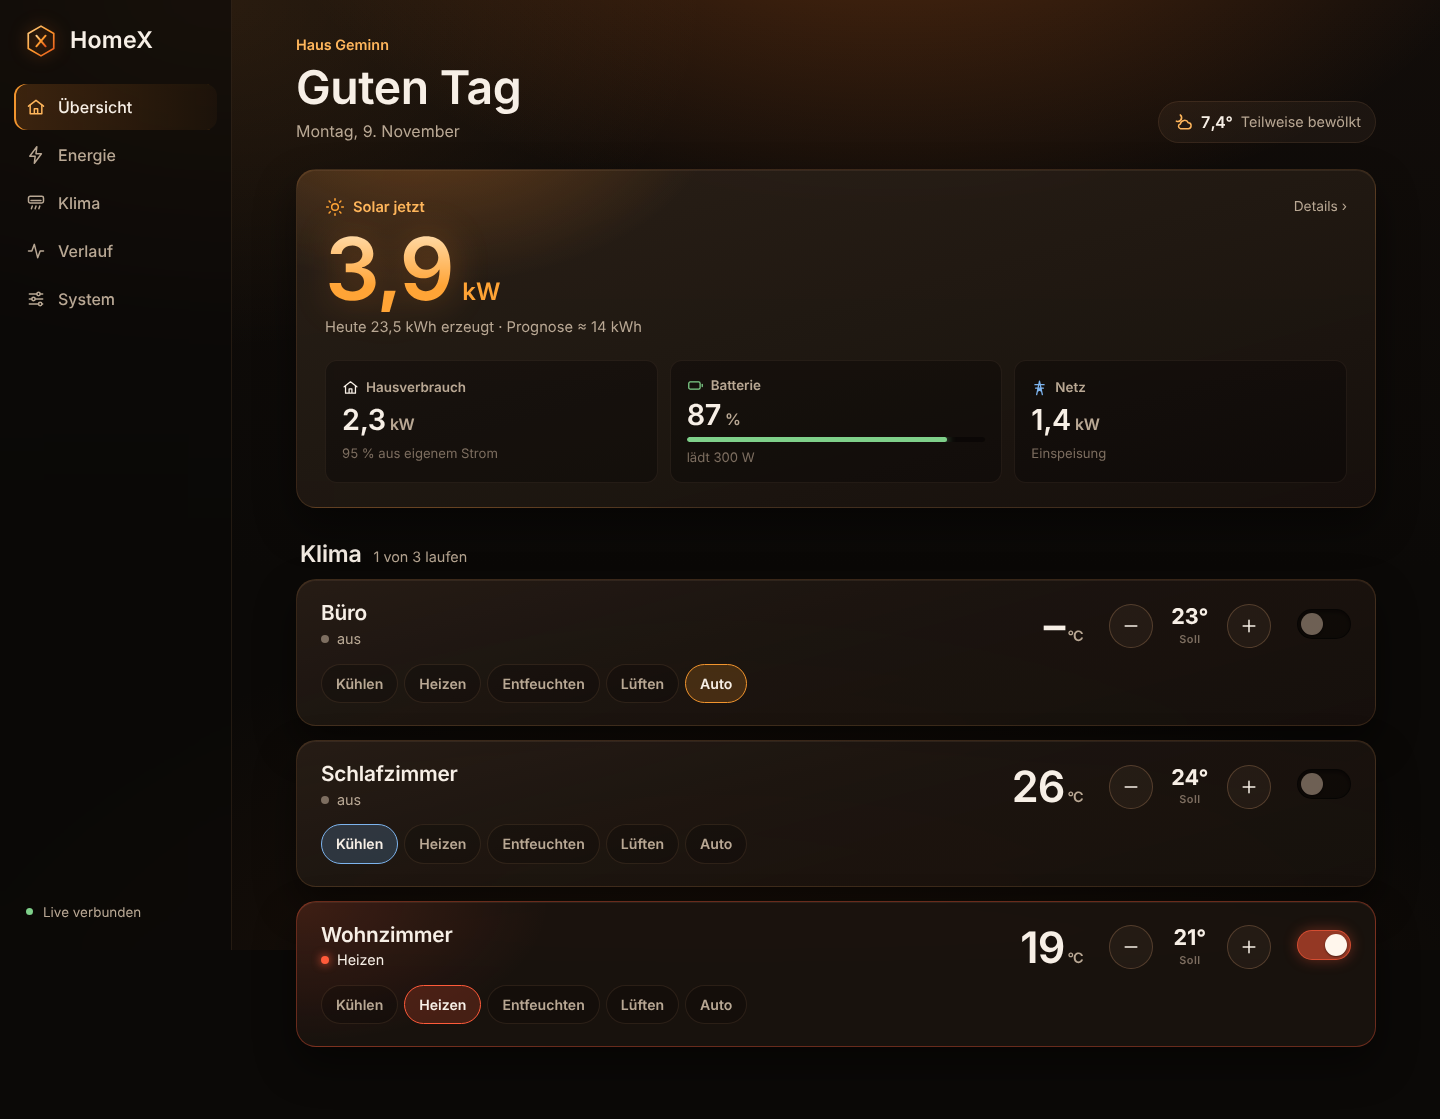
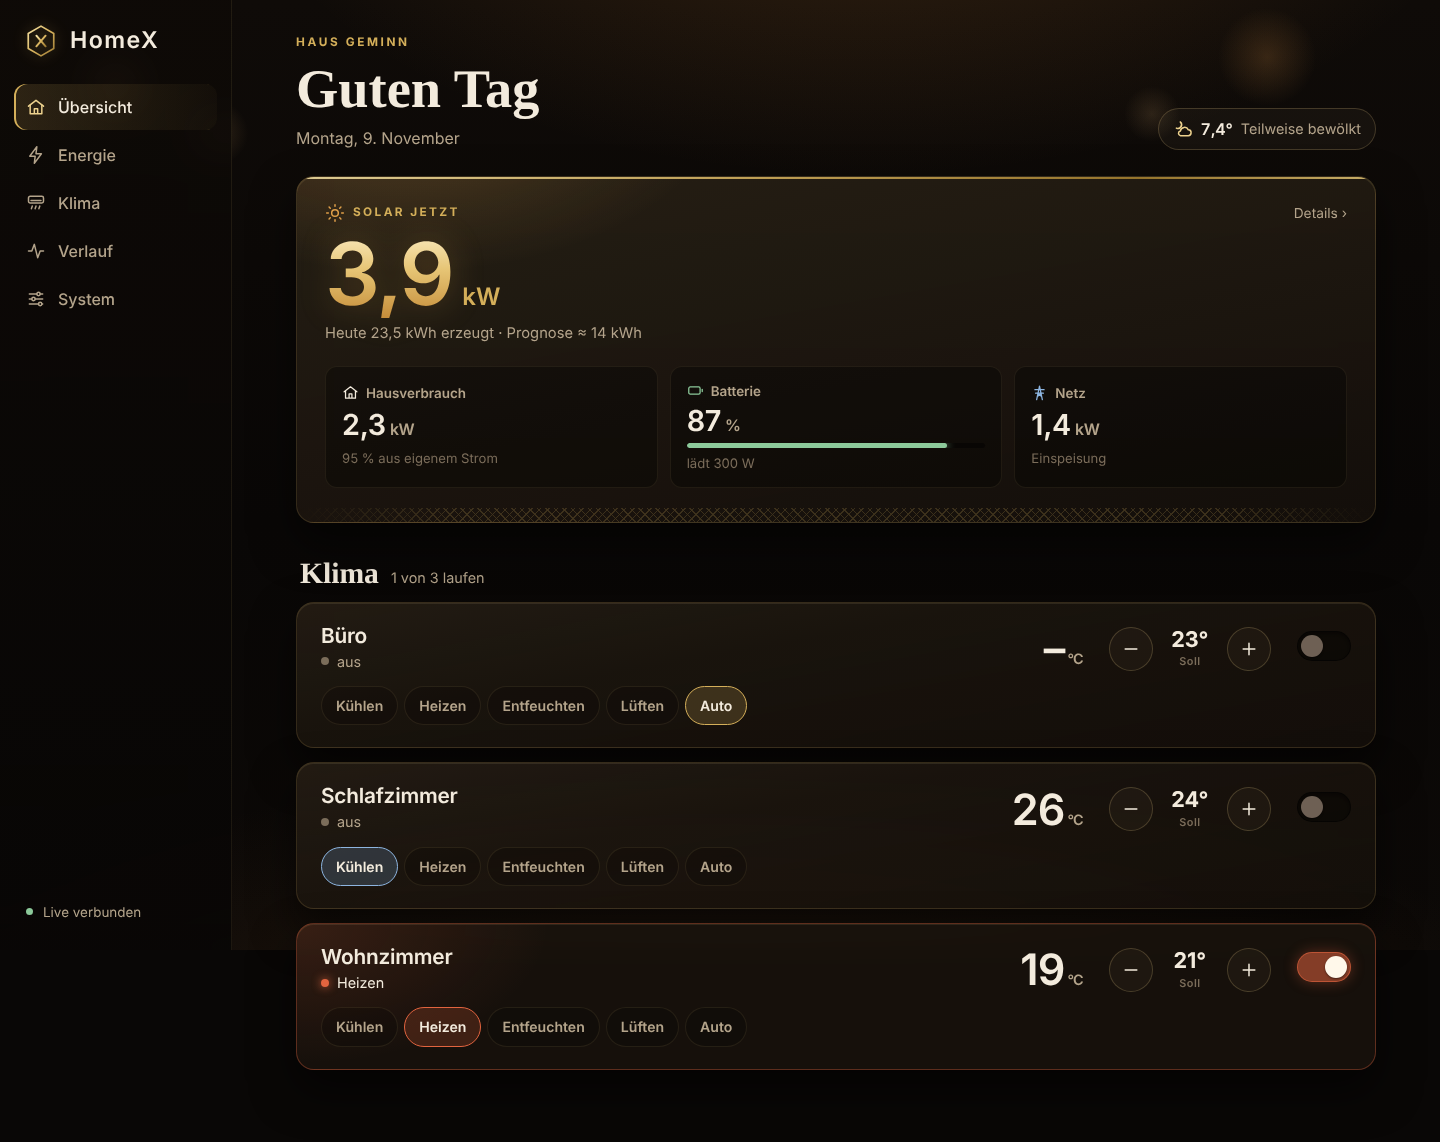
Dashboard im Whisky-Tasting-Look (Schwarz, Braun, Gold); Test-Geräte nicht mehr auf dem Server

diff --git a/homex-plugins/web-api/src/main/resources/web/app.css b/homex-plugins/web-api/src/main/resources/web/app.css
@@ -1,5 +1,5 @@
 /* =====================================================================
-   HomeX – "Whisky & Rauch"
+   HomeX – "Whisky-Tasting"
    Fast schwarzer Grund, Licht wie Feuerschein von oben, Karten aus
    rauchigem Glas. Amber ist die eine leuchtende Farbe (Sonne, aktiv,
    Auswahl); die übrigen Farben tragen Bedeutung: Grün = Batterie,
@@ -7,45 +7,47 @@
    ===================================================================== */
 
 :root {
-  --holz: #0B0907;
-  --holz-hell: #15100C;
-  --leder: rgba(28, 21, 16, .78);
-  --leder-hoch: rgba(40, 29, 21, .85);
-  --leder-tief: rgba(14, 10, 8, .6);
-  --glas-rand: rgba(255, 170, 90, .14);
-  --kante: rgba(255, 190, 130, .10);
-  --kante-hell: rgba(255, 190, 130, .22);
+  --holz: #090706;
+  --holz-hell: #14100C;
+  --leder: rgba(27, 20, 14, .74);          /* dunkles Eichenbraun, wie Whisky im Schatten */
+  --leder-hoch: rgba(40, 30, 21, .85);
+  --leder-tief: rgba(12, 9, 7, .6);
+  --glas-rand: rgba(214, 178, 98, .17);    /* feine Goldkante */
+  --kante: rgba(214, 182, 120, .10);
+  --kante-hell: rgba(214, 182, 120, .24);
 
-  --text: #F7EFE6;
-  --leise: #B9A894;
-  --sehr-leise: #7D6E60;
+  --text: #F3EBDD;
+  --leise: #B4A48B;
+  --sehr-leise: #7B6D5A;
 
-  --messing: #F2952E;          /* Amber – die Akzentfarbe */
-  --messing-hell: #FFB65C;
-  --glut: #FF6A1F;
-  --sonne: #FFA436;
-  --batterie: #7FD08A;
-  --netz: #7DB4EE;
-  --kuehl: #7DB4EE;
-  --heiss: #FF5B3A;
-  --ok: #7FD08A;
+  --messing: #D4AF5A;          /* Gold – die Akzentfarbe (Karaffenverschluss) */
+  --messing-hell: #EDD28E;
+  --glut: #9C7A32;
+  --gold-verlauf: linear-gradient(135deg, #F6E4A6 0%, #D9B560 42%, #A8822F 78%, #E3C676 100%);
+  --sonne: #E0A04A;            /* Whisky-Bernstein für die Solarleistung */
+  --batterie: #8CC99A;
+  --netz: #8DB5E0;
+  --kuehl: #8DB5E0;
+  --heiss: #E2643F;
+  --ok: #8CC99A;
 
   /* Diagrammfarben – geprüft auf Kontrast und Farbsehschwäche vor dem dunklen Glas */
   --reihe-pv: #D07E22;
   --reihe-verbrauch: #4A92D4;
 
-  --panel: #1A140F;
-  --panel-hoch: #241B14;
+  --panel: #19130E;
+  --panel-hoch: #231A12;
   --violett: var(--messing);
   --mint: var(--ok);
 
+  --schrift-edel: "Cormorant Garamond", Georgia, serif;
   --schrift-titel: "Outfit", "Segoe UI", system-ui, sans-serif;
   --schrift-text: "Manrope", "Segoe UI", system-ui, -apple-system, sans-serif;
   --schrift-zahl: "Outfit", "Segoe UI", system-ui, sans-serif;
 
   --rand: 16px;
   --r-klein: 12px;
-  --r-gross: 20px;
+  --r-gross: 18px;
   --nav-breite: 232px;
   color-scheme: dark;
 }
@@ -60,16 +62,20 @@ body {
   color: var(--text);
   font: 400 1rem/1.5 var(--schrift-text);
   background-color: var(--holz);
-  /* Feuerschein von oben, nach unten in Rauch und Schwarz */
+  /* Dunkler Raum, Kerzenlichter im Hintergrund, unten der Schimmer des Holztresens */
   background-image:
-    radial-gradient(900px 520px at 62% -140px, rgba(255, 120, 30, .28), transparent 70%),
-    radial-gradient(700px 500px at 15% 0%, rgba(255, 160, 60, .10), transparent 70%),
-    radial-gradient(1200px 700px at 50% 115%, rgba(120, 60, 20, .18), transparent 70%),
-    linear-gradient(180deg, #120D0A, #0B0907 60%);
+    radial-gradient(60px 60px at 8% 9%, rgba(255, 176, 90, .20), transparent 70%),
+    radial-gradient(46px 46px at 15% 14%, rgba(255, 196, 120, .14), transparent 70%),
+    radial-gradient(70px 70px at 88% 6%, rgba(255, 170, 80, .16), transparent 70%),
+    radial-gradient(40px 40px at 80% 12%, rgba(255, 200, 130, .12), transparent 70%),
+    radial-gradient(900px 480px at 60% -160px, rgba(190, 120, 50, .22), transparent 70%),
+    radial-gradient(1300px 520px at 50% 118%, rgba(110, 70, 36, .30), transparent 70%),
+    linear-gradient(180deg, #0F0B08, #090706 55%, #0C0907);
   background-attachment: fixed;
 }
 
 h1, h2, h3 { margin: 0; font-family: var(--schrift-titel); font-weight: 600; letter-spacing: -.01em; line-height: 1.1; }
+.kopf h1, .abschnitt-kopf h2 { font-family: var(--schrift-edel); font-weight: 600; letter-spacing: 0; }
 p { margin: 0; }
 button, input, select { font: inherit; color: inherit; }
 button { cursor: pointer; }
@@ -87,10 +93,10 @@ strong, .zahl { font-variant-numeric: tabular-nums; }
 /* Rauchglas: wird von Karten, Panels und Dialogen geteilt. */
 .leder, .panel, .solar-karte, .klima-karte, .regel, .szenen-karte, .login, .blatt, .leer-gross {
   position: relative;
-  background: linear-gradient(165deg, rgba(255, 200, 150, .06), rgba(255, 200, 150, .015) 40%, rgba(0,0,0,.1)), var(--leder);
+  background: linear-gradient(170deg, rgba(232, 200, 140, .06), rgba(232, 200, 140, .012) 38%, rgba(0,0,0,.14)), var(--leder);
   border: 1px solid var(--glas-rand);
   border-radius: var(--r-gross);
-  box-shadow: 0 1px 0 rgba(255, 210, 160, .08) inset, 0 18px 40px rgba(0,0,0,.45);
+  box-shadow: 0 1px 0 rgba(246, 228, 166, .10) inset, 0 20px 44px rgba(0,0,0,.55);
   -webkit-backdrop-filter: blur(14px); backdrop-filter: blur(14px);
 }
 
@@ -102,7 +108,7 @@ strong, .zahl { font-variant-numeric: tabular-nums; }
   position: sticky; top: 0; height: 100vh;
   display: flex; flex-direction: column; gap: 26px;
   padding: 24px 14px calc(18px + env(safe-area-inset-bottom));
-  background: rgba(10, 8, 6, .6);
+  background: linear-gradient(180deg, rgba(14, 10, 7, .78), rgba(8, 6, 5, .85));
   -webkit-backdrop-filter: blur(16px); backdrop-filter: blur(16px);
   border-right: 1px solid var(--kante);
 }
@@ -111,14 +117,15 @@ strong, .zahl { font-variant-numeric: tabular-nums; }
   color: var(--text); text-decoration: none;
   font: 600 1.45rem/1 var(--schrift-titel); letter-spacing: .01em;
 }
-.marke-hex { width: 34px; height: 34px; filter: drop-shadow(0 0 8px rgba(255, 130, 40, .55)); }
+.marke-hex { width: 34px; height: 34px; filter: drop-shadow(0 0 7px rgba(214, 175, 90, .45)); }
+.marke span { letter-spacing: .06em; }
 .nav-liste { list-style: none; margin: 0; padding: 0; display: grid; gap: 2px; }
 .nav-liste a {
   display: flex; align-items: center; gap: 12px; padding: 11px 12px; border-radius: var(--r-klein);
   color: var(--leise); text-decoration: none; font-weight: 500;
 }
-.nav-liste a:hover { color: var(--text); background: rgba(255,235,200,.04); }
-.nav-liste a[aria-current="page"] { color: var(--text); background: linear-gradient(90deg, rgba(255,140,40,.18), rgba(255,140,40,.04)); box-shadow: inset 2px 0 0 var(--messing); }
+.nav-liste a:hover { color: var(--text); background: rgba(240,220,170,.04); }
+.nav-liste a[aria-current="page"] { color: var(--text); background: linear-gradient(90deg, rgba(214,175,90,.16), rgba(214,175,90,.03)); box-shadow: inset 2px 0 0 var(--messing); }
 .nav-liste a[aria-current="page"] .icon { color: var(--messing-hell); }
 .nav-zahl { margin-left: auto; font-weight: 700; font-size: .78rem; color: var(--heiss); }
 .nav-status { margin-top: auto; padding: 10px 12px; font-size: .84rem; color: var(--leise); display: flex; align-items: center; gap: 10px; }
@@ -132,14 +139,14 @@ strong, .zahl { font-variant-numeric: tabular-nums; }
 /* ================================================================ Kopf */
 
 .kopf { display: flex; flex-wrap: wrap; align-items: flex-end; gap: 14px 28px; margin-bottom: 26px; }
-.kopf h1 { font-size: clamp(2.1rem, 4vw, 2.9rem); font-weight: 600; }
-.kopf-ueber { color: var(--messing-hell); font-size: .9rem; font-weight: 600; margin-bottom: 6px; }
+.kopf h1 { font-size: clamp(2.5rem, 5vw, 3.4rem); font-weight: 600; }
+.kopf-ueber { color: var(--messing); font-size: .74rem; font-weight: 700; letter-spacing: .22em; text-transform: uppercase; margin-bottom: 8px; }
 .kopf-unter { color: var(--leise); margin-top: 6px; }
 .kopf-rechts { margin-left: auto; display: flex; flex-wrap: wrap; gap: 10px; align-items: center; }
 
 .chip {
   display: inline-flex; align-items: center; gap: 8px; padding: 8px 14px; border-radius: 999px;
-  background: rgba(255, 200, 150, .05); border: 1px solid var(--kante); color: var(--leise); text-decoration: none; font-size: .9rem;
+  background: rgba(240, 215, 160, .045); border: 1px solid var(--kante-hell); color: var(--leise); text-decoration: none; font-size: .9rem;
 }
 .chip strong { color: var(--text); font-weight: 600; font-size: 1rem; }
 .chip .icon { color: var(--messing-hell); }
@@ -147,7 +154,7 @@ a.chip:hover { border-color: var(--kante-hell); }
 
 .abschnitt { margin-top: 34px; }
 .abschnitt-kopf { display: flex; align-items: baseline; gap: 12px; margin-bottom: 12px; padding: 0 4px; }
-.abschnitt-kopf h2 { font-size: 1.45rem; }
+.abschnitt-kopf h2 { font-size: 1.85rem; }
 .abschnitt-kopf .neben { color: var(--leise); font-size: .9rem; }
 .panel { padding: 22px; }
 .panel h2 { font-size: 1.2rem; margin-bottom: 14px; position: relative; z-index: 1; }
@@ -167,13 +174,13 @@ a.chip:hover { border-color: var(--kante-hell); }
 .knopf:hover { border-color: var(--messing); }
 .knopf:disabled { opacity: .45; cursor: default; }
 .knopf .icon { width: 18px; height: 18px; }
-.knopf.haupt { color: #1A0F06; border: 0; background: linear-gradient(180deg, var(--messing-hell), var(--messing) 55%, var(--glut)); box-shadow: 0 6px 20px rgba(255,120,30,.3); }
+.knopf.haupt { color: #1A1206; border: 0; background: var(--gold-verlauf); box-shadow: 0 6px 20px rgba(214,175,90,.25), inset 0 1px 0 rgba(255,255,255,.35); }
 .knopf.klein { min-height: 34px; padding: 0 12px; font-size: .86rem; }
 
 .rund-knopf {
   width: 44px; height: 44px; border-radius: 50%; flex: none; display: grid; place-items: center;
   border: 1px solid var(--kante-hell); color: var(--text);
-  background: rgba(255, 200, 150, .05);
+  background: rgba(240, 215, 160, .04);
 }
 .rund-knopf:hover { border-color: var(--messing); }
 .rund-knopf:disabled { opacity: .35; cursor: default; }
@@ -192,7 +199,7 @@ a.chip:hover { border-color: var(--kante-hell); }
   transition: transform .18s ease, background .18s;
 }
 .schalter[aria-checked="true"] { background: color-mix(in srgb, var(--an) 55%, #120D0A); border-color: color-mix(in srgb, var(--an) 60%, transparent); box-shadow: 0 0 14px color-mix(in srgb, var(--an) 35%, transparent); }
-.schalter[aria-checked="true"]::after { transform: translateX(24px); background: #FFF6EC; }
+.schalter[aria-checked="true"]::after { transform: translateX(24px); background: #FFF8EA; }
 .schalter:disabled { opacity: .45; cursor: default; }
 
 .segmente { display: flex; flex-wrap: wrap; gap: 6px; }
@@ -211,22 +218,31 @@ input[type="range"] { width: 100%; accent-color: var(--farbe, var(--messing)); h
 .solar-karte {
   display: block; padding: 26px 28px 24px; color: var(--text); text-decoration: none; overflow: hidden;
   background:
-    radial-gradient(420px 260px at 12% -20%, rgba(255, 140, 40, .30), transparent 70%),
-    linear-gradient(165deg, rgba(255, 200, 150, .07), rgba(0,0,0,.1)), var(--leder);
+    radial-gradient(460px 260px at 10% -25%, rgba(224, 160, 74, .26), transparent 70%),
+    linear-gradient(170deg, rgba(232, 200, 140, .07), rgba(0,0,0,.14)), var(--leder);
 }
+/* Goldener Rand oben wie der Karaffenverschluss, unten das Rautenmuster der Gläser */
+.solar-karte::before { content: ""; position: absolute; left: 0; right: 0; top: 0; height: 2px; background: var(--gold-verlauf); opacity: .85; }
+.solar-karte::after { content: ""; position: absolute; left: 0; right: 0; bottom: 0; height: 14px; opacity: .22;
+  background:
+    repeating-linear-gradient(45deg, transparent 0 5px, rgba(214,175,90,.9) 5px 6px),
+    repeating-linear-gradient(-45deg, transparent 0 5px, rgba(214,175,90,.9) 5px 6px);
+  -webkit-mask-image: linear-gradient(90deg, transparent, #000 15%, #000 85%, transparent);
+  mask-image: linear-gradient(90deg, transparent, #000 15%, #000 85%, transparent); }
+.solar-karte { padding-bottom: 34px; }
 .solar-karte > * { position: relative; z-index: 1; }
 .solar-karte:hover .solar-mehr { color: var(--messing-hell); }
 .solar-karte.offline .solar-gross { opacity: .5; }
 .solar-kopf { display: flex; align-items: center; gap: 12px; }
-.solar-titel { display: inline-flex; align-items: center; gap: 8px; color: var(--messing-hell); font-weight: 600; font-size: .92rem; }
+.solar-titel { display: inline-flex; align-items: center; gap: 8px; color: var(--messing); font-weight: 700; font-size: .74rem; letter-spacing: .2em; text-transform: uppercase; }
 .solar-titel .icon { color: var(--sonne); }
 .solar-mehr { margin-left: auto; color: var(--leise); font-size: .86rem; }
 .solar-mehr::after { content: " ›"; }
 .solar-gross { display: flex; align-items: baseline; gap: 10px; margin-top: 8px; }
 .solar-gross strong { font: 600 clamp(3.6rem, 9vw, 5.4rem)/1 var(--schrift-zahl); letter-spacing: -.03em;
-  background: linear-gradient(180deg, #FFE2B8, var(--sonne) 70%); -webkit-background-clip: text; background-clip: text; color: transparent;
-  filter: drop-shadow(0 0 18px rgba(255, 140, 40, .35)); }
-.solar-gross span { font: 600 1.5rem var(--schrift-zahl); color: var(--sonne); }
+  background: linear-gradient(180deg, #FBEBC0 0%, #E6C474 45%, #C58D3A 100%); -webkit-background-clip: text; background-clip: text; color: transparent;
+  filter: drop-shadow(0 0 16px rgba(214, 160, 70, .28)); }
+.solar-gross span { font: 600 1.5rem var(--schrift-zahl); color: var(--messing); }
 .solar-unter { color: var(--leise); font-size: .92rem; margin-top: 4px; }
 .solar-warten { color: var(--leise); margin-top: 14px; max-width: 60ch; }
 
@@ -234,7 +250,7 @@ input[type="range"] { width: 100%; accent-color: var(--farbe, var(--messing)); h
 .solar-kachel {
   --farbe: var(--text);
   display: grid; gap: 4px; padding: 14px 16px; border-radius: 12px;
-  background: rgba(0,0,0,.28); border: 1px solid rgba(255, 200, 150, .07);
+  background: rgba(0,0,0,.32); border: 1px solid rgba(214, 182, 120, .09);
 }
 .solar-kachel.haus { --farbe: var(--text); }
 .solar-kachel.batterie { --farbe: var(--batterie); }
@@ -294,7 +310,7 @@ button.klima-name { background: none; border: 0; padding: 0; text-align: left; }
 .geraet-oeffnen { flex: 1; min-width: 0; display: flex; align-items: center; gap: 14px; background: none; border: 0; padding: 6px 0; text-align: left; }
 .geraet-symbol { width: 40px; height: 40px; border-radius: 50%; display: grid; place-items: center; flex: none;
   background: rgba(0,0,0,.25); color: var(--leise); border: 1px solid var(--kante); }
-.geraet-zeile.an .geraet-symbol { color: var(--sonne); border-color: rgba(227,168,63,.5); }
+.geraet-zeile.an .geraet-symbol { color: var(--messing-hell); border-color: rgba(214,175,90,.5); }
 .geraet-text { display: grid; min-width: 0; }
 .geraet-text strong { font-weight: 600; }
 .geraet-text span { color: var(--leise); font-size: .86rem; white-space: nowrap; overflow: hidden; text-overflow: ellipsis; }
@@ -314,7 +330,7 @@ button.klima-name { background: none; border: 0; padding: 0; text-align: left; }
 .fluss .strom.rueck { animation-direction: reverse; }
 @keyframes fliessen { to { stroke-dashoffset: -28; } }
 .fluss .knoten-form { fill: #17110D; stroke-width: 1.6; stroke: rgba(214,178,122,.35); }
-.fluss .haus .knoten-form { fill: #221912; stroke: var(--messing); filter: drop-shadow(0 0 10px rgba(255,130,40,.35)); }
+.fluss .haus .knoten-form { fill: #221912; stroke: var(--messing); filter: drop-shadow(0 0 10px rgba(214,175,90,.3)); }
 .fluss .wert { font: 600 21px/1 var(--schrift-zahl); fill: var(--text); text-anchor: middle; }
 .fluss .haus .wert { font-size: 30px; }
 .fluss .name { font: 600 12px/1 var(--schrift-text); fill: var(--leise); text-anchor: middle; }
@@ -490,7 +506,7 @@ table.daten td.zahl, table.daten th.zahl { text-align: right; font-variant-numer
     position: fixed; z-index: 20; top: auto; bottom: 0; left: 0; right: 0; height: auto;
     flex-direction: row; gap: 0; padding: 6px 6px calc(6px + env(safe-area-inset-bottom));
     border-right: 0; border-top: 1px solid rgba(0,0,0,.6); box-shadow: 0 -1px 0 var(--kante);
-    background: rgba(12, 9, 7, .82); -webkit-backdrop-filter: blur(18px); backdrop-filter: blur(18px);
+    background: rgba(9, 7, 5, .86); -webkit-backdrop-filter: blur(18px); backdrop-filter: blur(18px);
   }
   .marke { display: none; }
   .nav-status { display: none; }
@@ -503,7 +519,7 @@ table.daten td.zahl, table.daten th.zahl { text-align: right; font-variant-numer
   .nav-liste li { flex: 1; }
   .nav-liste a { flex-direction: column; gap: 3px; padding: 7px 2px; font-size: .7rem; font-weight: 600; }
   .nav-liste a[aria-current="page"] { box-shadow: none; background: none; color: var(--messing-hell); }
-  .nav-liste a[aria-current="page"] .icon { filter: drop-shadow(0 0 6px rgba(255,140,40,.7)); }
+  .nav-liste a[aria-current="page"] .icon { filter: drop-shadow(0 0 6px rgba(214,175,90,.6)); }
   .nav-zahl { display: none; }
   .inhalt { padding: calc(20px + env(safe-area-inset-top)) var(--rand) calc(100px + env(safe-area-inset-bottom)); }
   .kopf { margin-bottom: 18px; align-items: flex-start; }

diff --git a/homex-plugins/web-api/src/main/resources/web/index.html b/homex-plugins/web-api/src/main/resources/web/index.html
@@ -5,7 +5,7 @@
   <meta name="viewport" content="width=device-width, initial-scale=1, viewport-fit=cover">
   <title>HomeX</title>
   <meta name="description" content="HomeX – dein Smarthome">
-  <meta name="theme-color" content="#0B0907">
+  <meta name="theme-color" content="#090706">
   <meta name="mobile-web-app-capable" content="yes">
   <meta name="apple-mobile-web-app-capable" content="yes">
   <meta name="apple-mobile-web-app-title" content="HomeX">
@@ -15,7 +15,7 @@
   <link rel="apple-touch-icon" href="icon-180.png">
   <link rel="preconnect" href="https://fonts.googleapis.com">
   <link rel="preconnect" href="https://fonts.gstatic.com" crossorigin>
-  <link href="https://fonts.googleapis.com/css2?family=Outfit:wght@400;500;600;700&family=Manrope:wght@400;500;600;700&display=swap" rel="stylesheet">
+  <link href="https://fonts.googleapis.com/css2?family=Cormorant+Garamond:wght@500;600&family=Outfit:wght@400;500;600;700&family=Manrope:wght@400;500;600;700&display=swap" rel="stylesheet">
   <link rel="stylesheet" href="app.css">
 </head>
 <body>
@@ -28,9 +28,9 @@
         <svg class="marke-hex" viewBox="0 0 48 48" aria-hidden="true">
           <defs>
             <linearGradient id="markeMessing" x1="0" y1="0" x2="1" y2="1">
-              <stop offset="0" stop-color="#FFD08A"/>
-              <stop offset=".5" stop-color="#FF9A2E"/>
-              <stop offset="1" stop-color="#E5541A"/>
+              <stop offset="0" stop-color="#F6E4A6"/>
+              <stop offset=".5" stop-color="#D9B560"/>
+              <stop offset="1" stop-color="#9C7A32"/>
             </linearGradient>
           </defs>
           <path d="M24 3 42 13.5v21L24 45 6 34.5v-21Z" fill="none" stroke="url(#markeMessing)" stroke-width="2.4" stroke-linejoin="round"/>

diff --git a/README.md b/README.md
@@ -187,7 +187,7 @@ public class MeinListener implements Listener {
 - [`SmaSolar`](homex-plugins/sma-solar/README.md) – Sunny Tripower per Modbus TCP oder SMA Cloud-API
 - [`HisenseKlima`](homex-plugins/hisense-klima/README.md) – Hisense-Klimas (ConnectLife) steuern
 - [`WebAPI`](homex-plugins/web-api/README.md) – REST-API mit Live-Updates, Aktivitätsprotokoll, Verlauf und das HomeX-Dashboard
-- [`DummyGeraete`](homex-plugins/dummy-geraete/README.md) – Test-Lichter, Dimmer, Steckdosen und Rollläden mit OK/FEHLER in der Konsole
+- [`DummyGeraete`](homex-plugins/dummy-geraete/README.md) – Test-Lichter, Dimmer, Steckdosen und Rollläden mit OK/FEHLER in der Konsole (nur zum Testen am PC, auf dem Server nicht installiert)
 - [`Automation`](homex-plugins/automation/README.md) – Szenen und Regeln (Uhrzeit, Sonne, Bedingungen)
 - [`Wetter`](homex-plugins/wetter/README.md) – Wetter, Vorhersage und PV-Prognose von Open-Meteo
 

diff --git a/installation/README.md b/installation/README.md
@@ -50,6 +50,9 @@ Am Ende zeigt es die Adresse des Dashboards und den Zugangsschlüssel an. Beim e
 | `homex update` | neuesten Stand von GitHub holen, bauen und neu starten. **Einstellungen bleiben erhalten** |
 | `homex start` / `stop` / `neustart` / `status` | |
 
+Die Test-Geräte (`DummyGeraete`) werden auf dem Server nicht installiert. Wer sie doch will:
+`HOMEX_TESTGERAETE=1 bash /opt/homex/src/installation/install.sh`.
+
 Dateien: Programm und Einstellungen liegen in `/opt/homex/server`, das Log in `/opt/homex/server/logs/homex.log`.
 
 ## 4. Solaranlage (Modbus) einbinden
